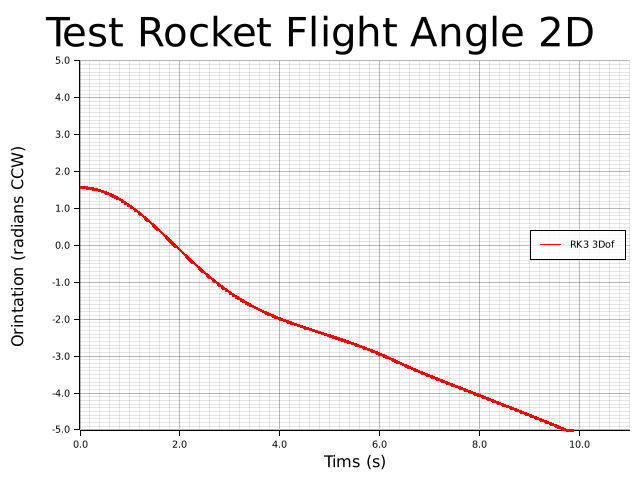
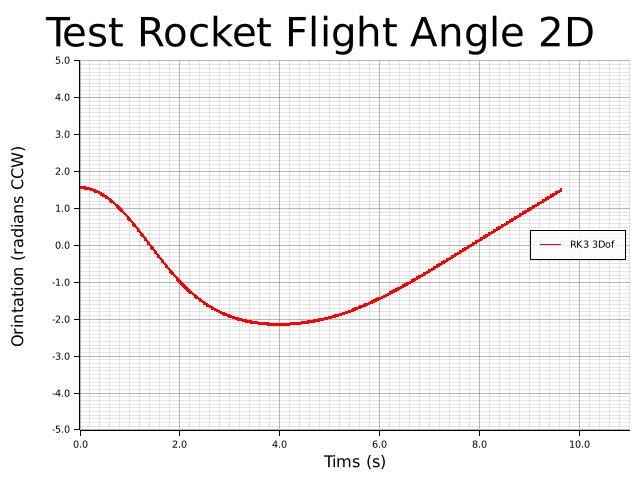
these changes should have been incldued with that last commit oeups

diff --git a/hprm/demo.py b/hprm/demo.py
@@ -1,0 +1,21 @@
+import hprm
+
+
+def main():
+    print("Testing out the High Powered Rocket Modeling Program")
+
+    # Define the Test Vehicle
+    test_vehicle = hprm.Rocket(
+        10.0,   # mass kg
+        0.3,    # drag coefficient
+        0.005,  # cross-sectional refference area
+        0.05,   # lifting-surface refference area
+        5.0,    # Moment of Inertia (for a 3DoF rocket)
+        0.5,    # Dimensional stability margin (distance between cp and cg)
+        0.2     # Derivative of lift coefficient with alpha(angle of attack)
+    )
+
+    # Run the simulation
+    hprm.main(test_vehicle)
+
+main()
